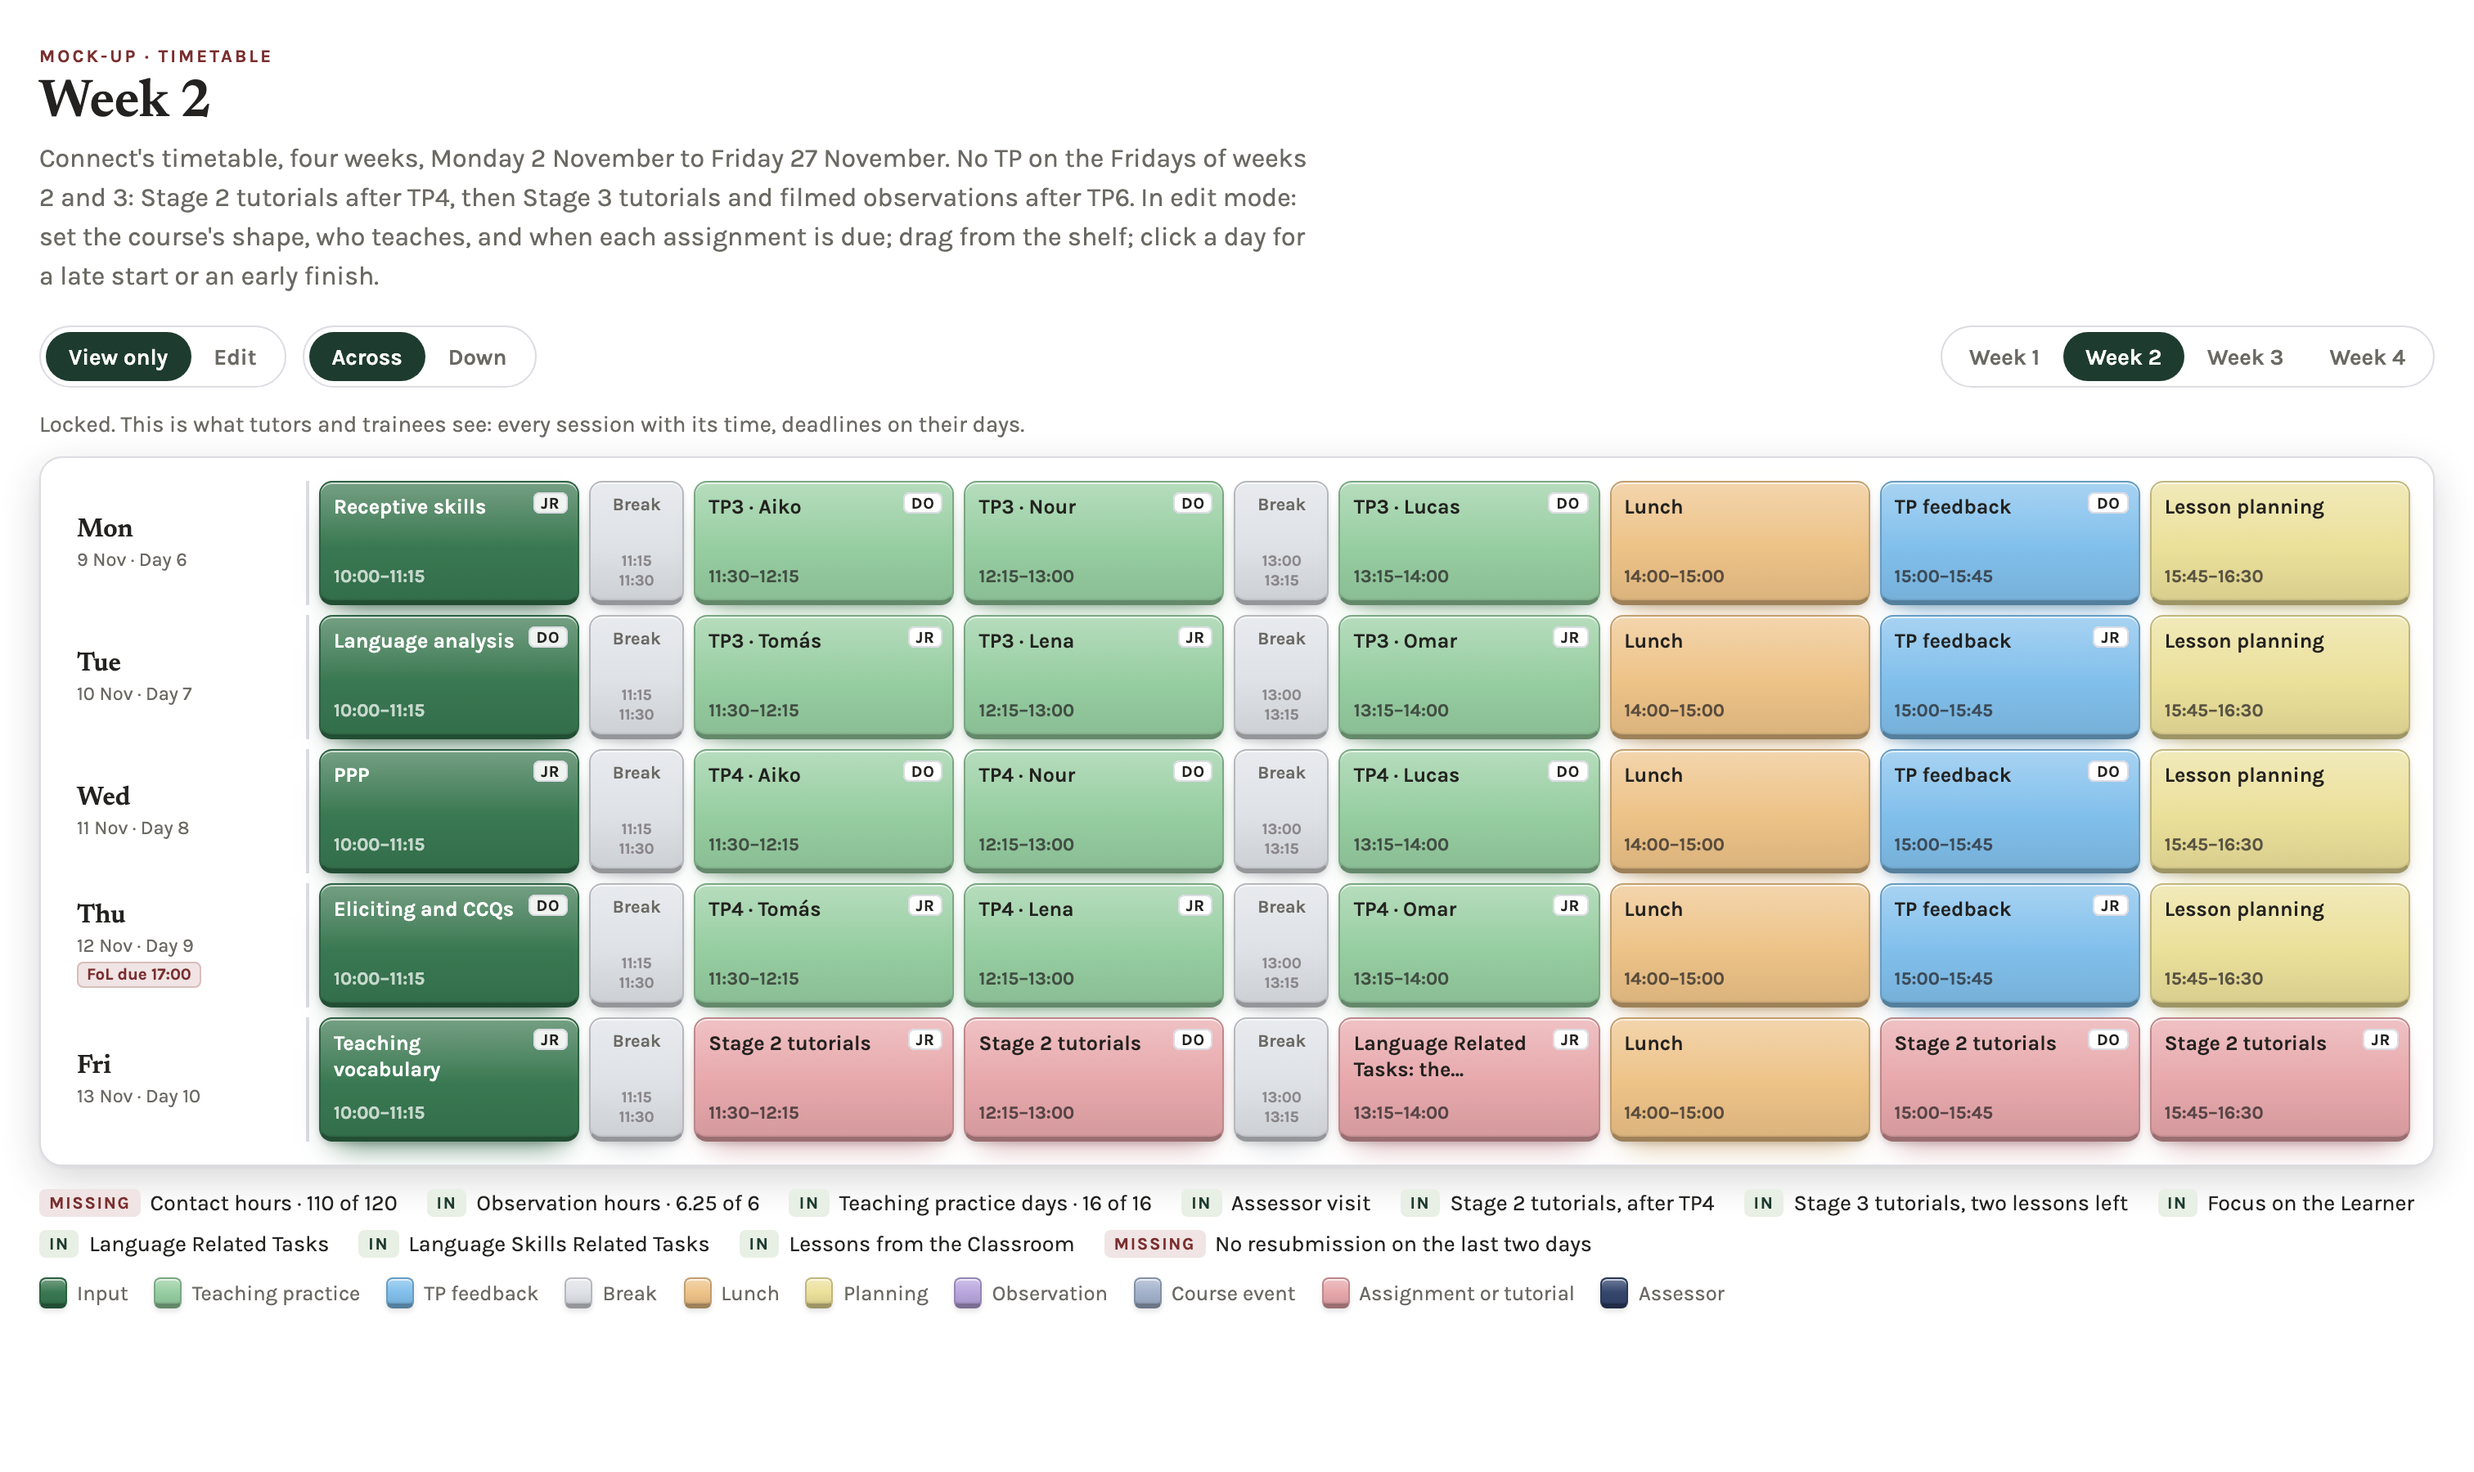
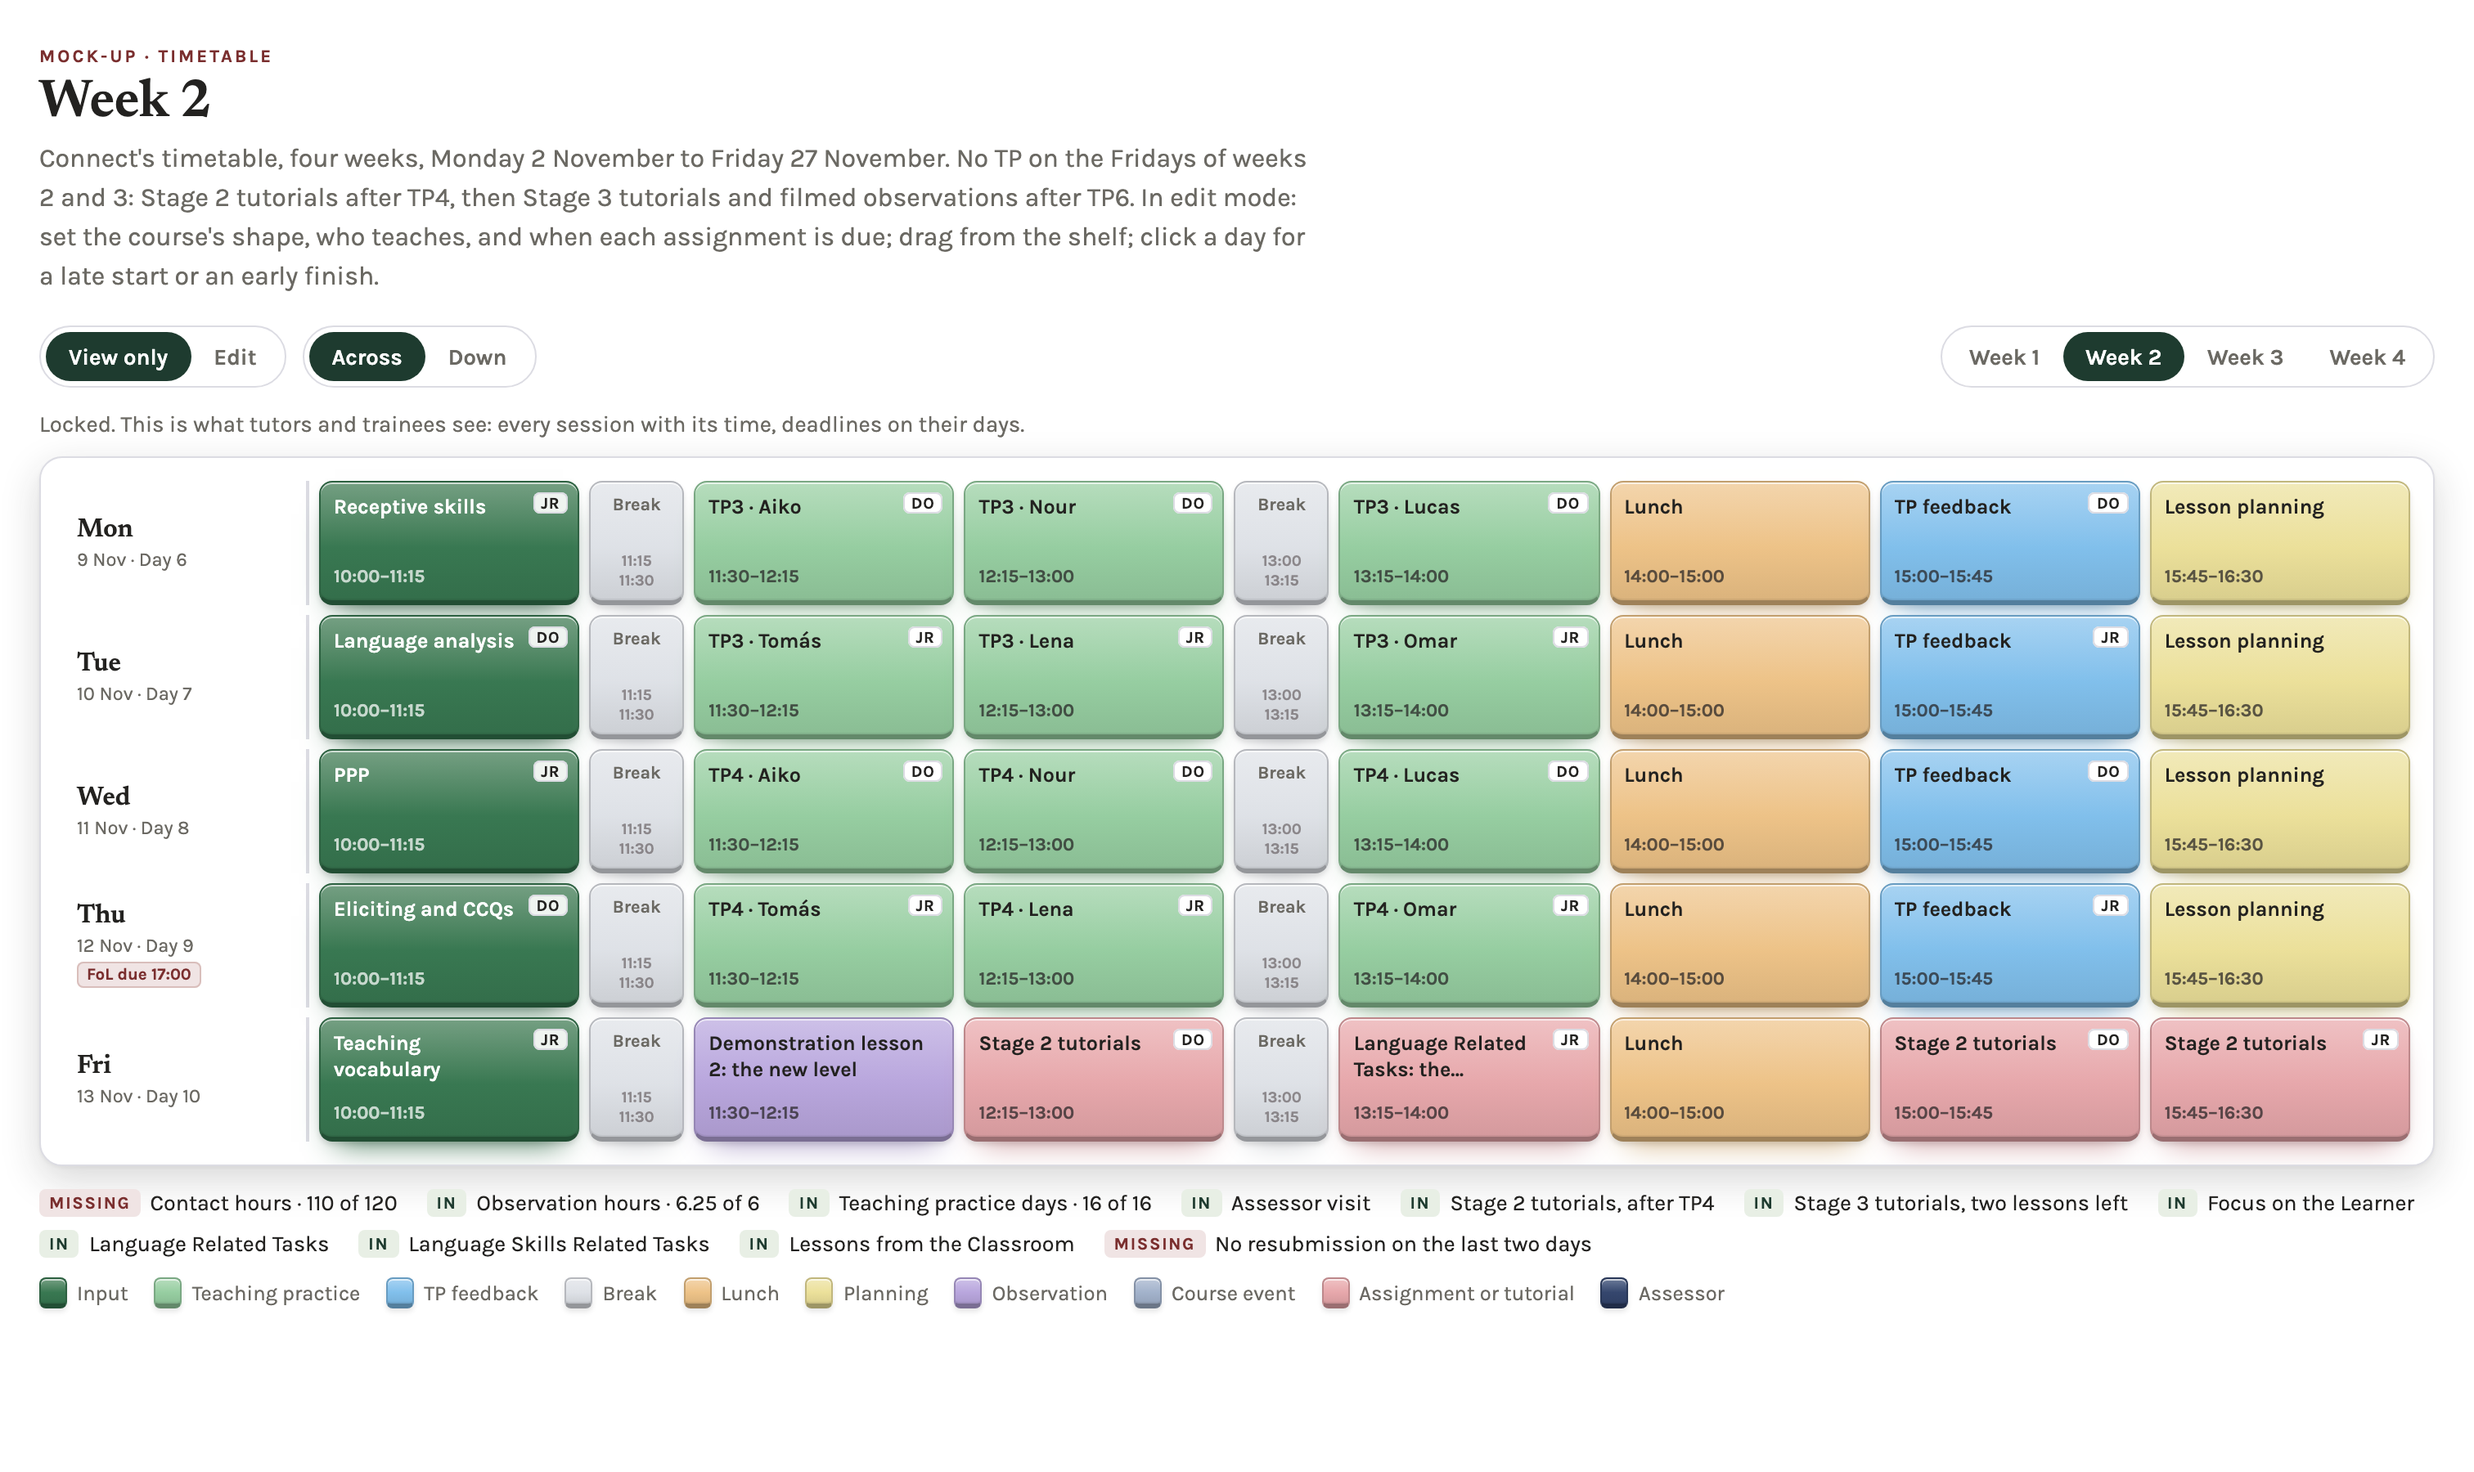
Timetable mock-up: two demonstration lessons of 45 minutes (Ramy, 29 Oct 2026): the first on day one, followed by its debrief, getting to know you and planning TP1; the second on week 2 Friday at the change of level, before the Stage 2 tutorials. A mock-up only.

Changed region(s): [[0.2798, 0.6844, 0.4041, 0.7778]]

diff --git a/docs/mockups/timetable-whole.html b/docs/mockups/timetable-whole.html
@@ -217,7 +217,7 @@
     { k:'task', t:'Language Skills Related Tasks: the assignment', len:60, asg:'lsrt', req:1 }, { k:'task', t:'Lessons from the Classroom: the assignment', len:60, asg:'lfc', req:1 },
     { k:'task', t:'Stage 2 tutorials', len:45, req:1 }, { k:'task', t:'Stage 3 tutorials', len:45 }, { k:'task', t:'Stage 1 progress check', len:45 },
     { k:'assessor', t:'Assessor visit', len:180, req:1 }, { k:'task', t:'Consultation', len:60 },
-    { k:'demo', t:'Observation: an experienced teacher', len:60, req:1 }, { k:'demo', t:'Observation: a filmed lesson, with a task', len:60, req:1 }, { k:'demo', t:'Demonstration lesson', len:60 },
+    { k:'demo', t:'Observation: an experienced teacher', len:60, req:1 }, { k:'demo', t:'Observation: a filmed lesson, with a task', len:60, req:1 }, { k:'demo', t:'Demonstration lesson', len:45 },
     { k:'event', t:'Getting to know you', len:45 }, { k:'event', t:'Course review', len:60 }, { k:'plan', t:'Study time', len:60 }
   ];
   /* five weeks, Friday off */
@@ -286,9 +286,9 @@
         tps.forEach(function(x, i){ put(row, { k:'tp', t:'TP' + p.tp + ' · ' + G[p.g][i % 4], by: tut, s: x.s, e: x.e }); });
         after.forEach(function(x){ put(row, { k: x.k, t: x.k === 'feedback' ? 'TP feedback' : (p.tp >= 7 ? 'Independent planning' : 'Lesson planning'), by: x.k === 'feedback' ? tut : undefined, s: x.s, e: x.e }); });
       } else if (d === 0) {
-        put(row, { k:'demo', t:'Demonstration lesson', s: tps[0].s, e: tps[1].e });
-        put(row, { k:'event', t:'Getting to know you: your activity', s: tps[2].s, e: tps[2].e });
-        after.forEach(function(x){ put(row, { k: x.k === 'feedback' ? 'event' : 'plan', t: x.k === 'feedback' ? 'Demo lesson debrief' : 'Lesson planning: TP1', s: x.s, e: x.e }); });
+        /* two demonstration lessons, 45 minutes each (Ramy, 29 Oct 2026): the first on day one */
+        var D1 = [['demo','Demonstration lesson 1'], ['event','Demo lesson debrief'], ['event','Getting to know you: your activity'], ['plan','Lesson planning: TP1, with your tutor'], ['plan','Lesson planning: TP1']];
+        tps.concat(after).forEach(function(x, i){ put(row, { k: D1[i][0], t: D1[i][1], s: x.s, e: x.e }); });
       } else if (d === 19) {
         /* the last day */
         tps.concat(after).forEach(function(x, i){ var f = [['task','Final tutorials'], ['task','Final tutorials'], ['task','Consultation: the CELTA 5 and the portfolio'], ['task','Consultation: what comes next'], ['event','End of course']][i]; put(row, { k: f[0], t: f[1], by: f[0] === 'task' ? who(i) : undefined, s: x.s, e: x.e }); });
@@ -298,7 +298,8 @@
         /* Ramy, 29 Oct 2026: "week 2 Friday will be tutorials" */
         /* Handbook 10 (pp. 30-31): Stage 2 is the one-to-one tutorial at the halfway point, after TP4, as the trainees swap
            tutors; Stage 3 in the final third, with at least two lessons left (after TP6) */
-        if (d === 9) fill = [['task','Stage 2 tutorials'], ['task','Stage 2 tutorials'], ['task','Language Related Tasks: the assignment','lrt'], ['task','Stage 2 tutorials'], ['task','Stage 2 tutorials']];
+        /* the second demonstration lesson at the change of level, before the Stage 2 tutorials (as on C/18) */
+        if (d === 9) fill = [['demo','Demonstration lesson 2: the new level'], ['task','Stage 2 tutorials'], ['task','Language Related Tasks: the assignment','lrt'], ['task','Stage 2 tutorials'], ['task','Stage 2 tutorials']];
         else if (d === 14) fill = [['demo','Filmed observation, with a task'], ['demo','Filmed observation, with a task'], ['task','Language Skills Related Tasks: the assignment','lsrt'], ['task','Stage 3 tutorials'], ['demo','Filmed observation, with a task']];
         else (extra[d] || []).forEach(function(e){ fill[e[0] === 0 ? 2 : 4] = [e[1], e[2], e[3]]; });
         slots.forEach(function(x, i){ var f = fill[i] || ['task','Consultation']; var o = { k: f[0], t: f[1], s: x.s, e: x.e }; if (f[2]) o.asg = f[2]; if (f[0] !== 'demo') o.by = who(d + i); put(row, o); });
